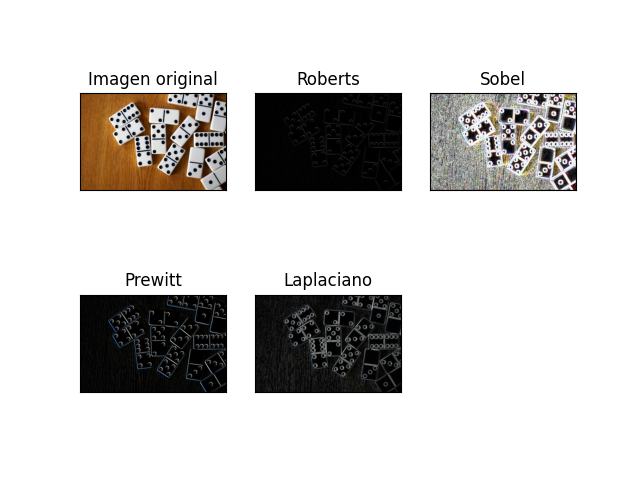
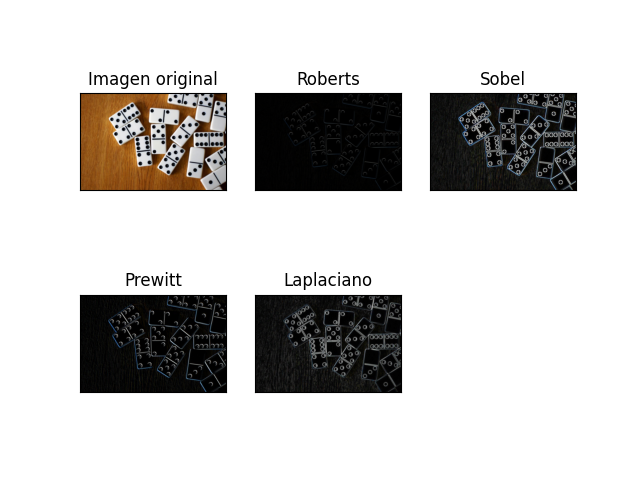
Canny y comparacion de bordes

Changed region(s): [[0.6562, 0.1875, 0.9062, 0.4062]]

diff --git a/canny/canny.py b/canny/canny.py
@@ -1,0 +1,65 @@
+import numpy as np
+import cv2
+import matplotlib.pyplot as plt
+import argparse
+
+# To execute .\media.py -i IMAGEPATH -k KERNELSIZE
+
+# Argument parser.
+ap = argparse.ArgumentParser()
+ap.add_argument("-i", "--image", required=True,
+                help="Image path or name if in the same folder")
+
+ap.add_argument("-m", "--minthreshold", required=True, type=int,
+                help="Minimum threshold value")
+
+ap.add_argument("-M", "--maxthreshold", required=True, type=int,
+                help="Maximum threshold value")
+
+args = vars(ap.parse_args())
+
+# Read the image and convert to grayscale
+image = cv2.imread(args["image"])
+image = cv2.cvtColor(image, cv2.COLOR_BGR2RGB)
+
+# Check if not exist
+if image is None:
+    print("Image not found")
+    exit(0)
+
+# Take threshold arguments
+minthreshold = args["minthreshold"]
+maxthreshold = args["maxthreshold"]
+
+if minthreshold and maxthreshold is None:
+    minthreshold = 80
+    maxthreshold = 120
+
+if minthreshold < 0:
+    minthreshold = 80
+if minthreshold > 254:
+    minthreshold = 80
+
+if maxthreshold < 1:
+    maxthreshold = 120
+if maxthreshold > 255:
+    maxthreshold = 120
+
+canny = cv2.Canny(image, minthreshold, maxthreshold)
+
+# Original
+plt.subplot(121)
+plt.imshow(image)
+plt.title("Imagen original")
+plt.xticks([]), plt.yticks([])
+
+# Blurred image
+plt.subplot(122)
+plt.imshow(canny, cmap='gray')
+plt.title('Detector de bordes Canny')
+plt.xticks([]), plt.yticks([])
+
+plt.show()
+
+cv2.waitKey(0)
+cv2.destroyAllWindows()

diff --git a/canny/edges.py b/canny/edges.py
@@ -53,6 +53,13 @@ prewittxy = cv2.addWeighted(prewittx, 0.5, prewitty, 0.5, 0)
 aux = cv2.Laplacian(image, cv2.CV_16S, ksize=3)
 Laplaciano = cv2.convertScaleAbs(aux)
 
+
+#Canny
+minthreshold = 150
+maxthreshold = 230
+canny = cv2.Canny(image, minthreshold, maxthreshold)
+
+
 # Original
 plt.subplot(2, 3, 1)
 plt.imshow(image, cmap='gray')
@@ -81,6 +88,12 @@ plt.xticks([]), plt.yticks([])
 plt.subplot(2, 3, 5)
 plt.imshow(Laplaciano, cmap='gray')
 plt.title('Laplaciano')
+plt.xticks([]), plt.yticks([])
+
+# Canny
+plt.subplot(2, 3, 6)
+plt.imshow(canny, cmap='gray')
+plt.title('Canny')
 plt.xticks([]), plt.yticks([])
 
 plt.show()

diff --git a/filtros/sobel.py b/filtros/sobel.py
@@ -19,12 +19,12 @@ if image is None:
     print("Image not found")
     exit(0)
 
-# Remove noise with gaussian blur
-image = cv2.GaussianBlur(image, (3, 3), 0)
+# Convert to RGB colors
+image = cv2.cvtColor(image, cv2.COLOR_BGR2RGB)
 
 # Convolute kernel = 5x5
-sobelx = cv2.Sobel(image, cv2.CV_16S, 1, 0, ksize=5)
-sobely = cv2.Sobel(image, cv2.CV_16S, 0, 1, ksize=5)
+sobelx = cv2.Sobel(image, cv2.CV_16S, 1, 0, ksize=3)
+sobely = cv2.Sobel(image, cv2.CV_16S, 0, 1, ksize=3)
 
 # Convert to uint8
 abssobelx = cv2.convertScaleAbs(sobelx)

diff --git a/filtros/roberts.py b/filtros/roberts.py
@@ -19,6 +19,9 @@ if image is None:
     print("Image not found")
     exit(0)
 
+# Convert to RGB colors
+image = cv2.cvtColor(image, cv2.COLOR_BGR2RGB)
+
 # X axis Roberts mask
 gx = np.array([[1, 0], [0, -1]])
 robertx = cv2.filter2D(image, -1, gx)

diff --git a/histograma/color.py b/histograma/color.py
@@ -19,6 +19,9 @@ if image is None:
     print("Image not found")
     exit(0)
 
+# Convert to RGB colors
+image = cv2.cvtColor(image, cv2.COLOR_BGR2RGB)
+
 fig, ax = plt.subplots(1, 1, figsize=(10, 10))
 ax1 = plt.subplot(221)
 ax2 = plt.subplot(223)

diff --git a/filtros/prewitt.py b/filtros/prewitt.py
@@ -19,6 +19,9 @@ if image is None:
     print("Image not found")
     exit(0)
 
+# Convert to RGB colors
+image = cv2.cvtColor(image, cv2.COLOR_BGR2RGB)
+
 # Remove noise with gaussian blur
 image = cv2.GaussianBlur(image, (3, 3), 0)
 
